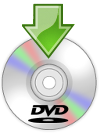
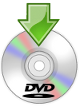
Añadidos los créditos del site

diff --git a/public/stylesheets/style.css b/public/stylesheets/style.css
@@ -417,6 +417,6 @@ a.tag6 { font-size:1.8em; color:#003553; line-height:1em; }
     bottom: 5px;
     right: 5px;
     background-image: url('/images/dvd.png');
-    width: 100px;
-    height: 133px;
+    width: 80px;
+    height: 106px;
 }

diff --git a/config/deploy.rb b/config/deploy.rb
@@ -9,7 +9,7 @@ set :applicationdir, "/var/rails/#{application}"
 # If you aren't using Subversion to manage your source code, specify
 # your SCM below:
 # set :scm, :subversion
-set :repository,  "https://svn.osl.ull.es/windowsLibre/tags/release-0.0.6.3"
+set :repository,  "https://svn.osl.ull.es/windowsLibre/tags/release-0.0.6.4"
 
 # Roles (servers)
 role :app, "windowsLibre.osl.ull.es"
